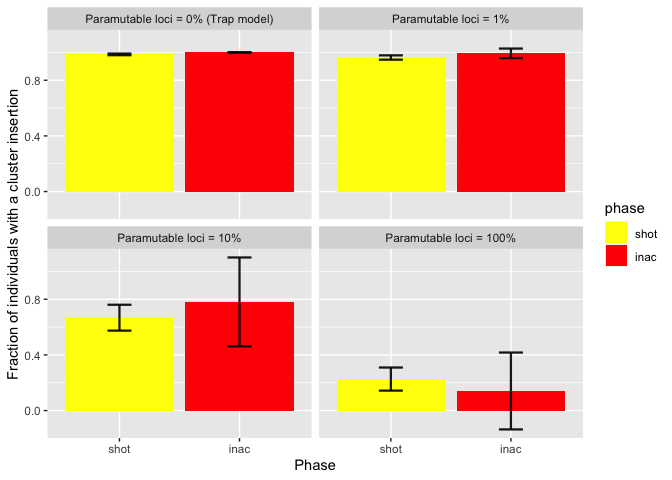
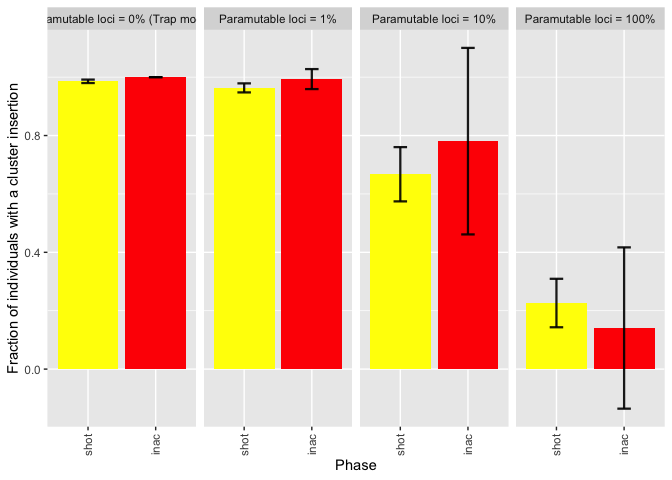
Plots fix

diff --git a/Simulation/2022_08_24_Simulation_1_2_Phases.md b/Simulation/2022_08_24_Simulation_1_2_Phases.md
@@ -106,7 +106,8 @@ g <- ggplot(df_cli, aes(x=phase, y=av_fwcli, fill = phase)) +
   ylab("Fraction of individuals with a cluster insertion")+
   xlab("Phase")+
   scale_fill_manual(values = c("yellow", "red"))+
-  facet_wrap(~sampleid, labeller = labeller(sampleid = 
+  theme(legend.position="none", axis.text.x = element_text(angle = 90, vjust = 0.5, hjust=1))+
+  facet_wrap(~sampleid, ncol=4, labeller = labeller(sampleid = 
                                               c("p0" = "Paramutable loci = 0% (Trap model)",
                                                 "p1" = "Paramutable loci = 1%",
                                                 "p10" = "Paramutable loci = 10%",
@@ -121,10 +122,11 @@ plot(g)
 g_2 <- ggplot(df_cli, aes(x=phase, y=av_cli, fill = phase)) + 
   geom_bar(stat = "identity") +
   geom_errorbar( aes(x=phase, ymin=av_cli-sd_cli, ymax=av_cli+sd_cli), width=0.2, colour="black", alpha=0.9, size=0.8)+
-  ylab("Fraction of individuals with a cluster insertion")+
+  ylab("Number of cluster insertions per individual")+
   xlab("Phase")+
   scale_fill_manual(values = c("yellow", "red"))+
-  facet_wrap(~sampleid, labeller = labeller(sampleid = 
+  theme(legend.position="none", axis.text.x = element_text(angle = 90, vjust = 0.5, hjust=1))+
+  facet_wrap(~sampleid, ncol=4, labeller = labeller(sampleid = 
                                               c("p0" = "Paramutable loci = 0% (Trap model)",
                                                 "p1" = "Paramutable loci = 1%",
                                                 "p10" = "Paramutable loci = 10%",
@@ -137,5 +139,4 @@ plot(g_2)
 
 ## Conclusions
 
-Paramutations reduce the number of cluster insertions at the beginning
-of the shotgun and inactive phases.
+Paramutations reduce the number of cluster insertions.
